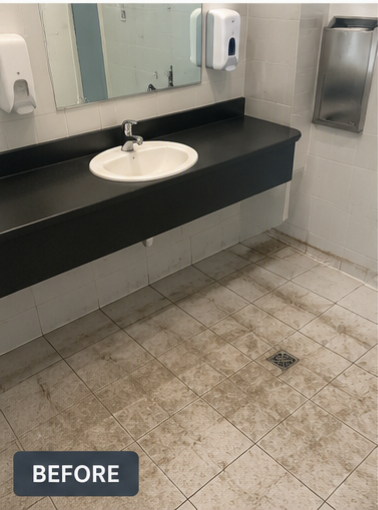
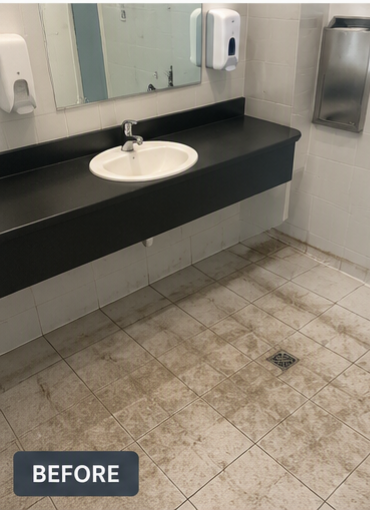
Fix bathroom photo crop, console warnings, and review carousel hydration.
Trim and zoom the Over & Above bathroom showcase images, load the hero review carousel client-side, and resolve Next.js scroll-behavior console noise.

diff --git a/src/components/sections/OverAndAboveFeature.tsx b/src/components/sections/OverAndAboveFeature.tsx
@@ -27,31 +27,45 @@ export function OverAndAboveFeature() {
             </SectionTitle>
 
             <div className="mt-8 grid grid-cols-2 gap-3">
-              <div className="relative overflow-hidden rounded-lg ring-1 ring-white/10">
+              <div className="relative aspect-[4/3] overflow-hidden rounded-lg ring-1 ring-white/10">
                 <span className="absolute left-2 top-2 z-10 rounded bg-navy px-2 py-0.5 text-xs font-semibold text-white">
                   Before
                 </span>
-                <Image
-                  src={overAndAboveShowcase.beforeImage}
-                  alt="Before — commercial bathroom floor before Assured Cleaning"
-                  width={320}
-                  height={240}
-                  className="aspect-[4/3] w-full object-cover"
-                  style={{ objectPosition: overAndAboveShowcase.objectPosition }}
-                />
+                <div
+                  className="absolute inset-0 origin-center"
+                  style={{ transform: `scale(${overAndAboveShowcase.zoom})` }}
+                >
+                  <Image
+                    src={overAndAboveShowcase.beforeImage}
+                    alt="Before — commercial bathroom floor before Assured Cleaning"
+                    fill
+                    sizes="(max-width: 1024px) 45vw, 320px"
+                    className="object-cover"
+                    style={{
+                      objectPosition: overAndAboveShowcase.beforeObjectPosition,
+                    }}
+                  />
+                </div>
               </div>
-              <div className="relative overflow-hidden rounded-lg ring-1 ring-white/10">
+              <div className="relative aspect-[4/3] overflow-hidden rounded-lg ring-1 ring-white/10">
                 <span className="absolute left-2 top-2 z-10 rounded bg-brand px-2 py-0.5 text-xs font-semibold text-navy">
                   After
                 </span>
-                <Image
-                  src={overAndAboveShowcase.afterImage}
-                  alt="After — bathroom floor restored by Assured Cleaning"
-                  width={320}
-                  height={240}
-                  className="aspect-[4/3] w-full object-cover"
-                  style={{ objectPosition: overAndAboveShowcase.objectPosition }}
-                />
+                <div
+                  className="absolute inset-0 origin-center"
+                  style={{ transform: `scale(${overAndAboveShowcase.zoom})` }}
+                >
+                  <Image
+                    src={overAndAboveShowcase.afterImage}
+                    alt="After — bathroom floor restored by Assured Cleaning"
+                    fill
+                    sizes="(max-width: 1024px) 45vw, 320px"
+                    className="object-cover"
+                    style={{
+                      objectPosition: overAndAboveShowcase.afterObjectPosition,
+                    }}
+                  />
+                </div>
               </div>
             </div>
 

diff --git a/src/components/sections/HeroReviewCarousel.tsx b/src/components/sections/HeroReviewCarousel.tsx
@@ -1,0 +1,27 @@
+"use client";
+
+import dynamic from "next/dynamic";
+
+const ReviewCarousel = dynamic(
+  () =>
+    import("@/components/sections/ReviewCarousel").then(
+      (mod) => mod.ReviewCarousel,
+    ),
+  {
+    ssr: false,
+    loading: () => (
+      <div
+        className="relative min-h-[3.5rem] min-w-0 flex-1 [mask-image:linear-gradient(to_right,transparent,black_6%,black_94%,transparent)]"
+        aria-hidden
+      />
+    ),
+  },
+);
+
+interface HeroReviewCarouselProps {
+  className?: string;
+}
+
+export function HeroReviewCarousel({ className }: HeroReviewCarouselProps) {
+  return <ReviewCarousel className={className} />;
+}

diff --git a/src/components/sections/Hero.tsx b/src/components/sections/Hero.tsx
@@ -1,5 +1,5 @@
 import Image from "next/image";
-import { ReviewCarousel } from "@/components/sections/ReviewCarousel";
+import { HeroReviewCarousel } from "@/components/sections/HeroReviewCarousel";
 import { Button } from "@/components/ui/Button";
 import { IconPattern } from "@/components/ui/BrandIcon";
 import { Container } from "@/components/ui/Container";
@@ -110,7 +110,7 @@ export function Hero() {
             className="hidden w-px shrink-0 self-stretch bg-white/10 md:block"
             aria-hidden
           />
-          <ReviewCarousel className="min-w-0 flex-1" />
+          <HeroReviewCarousel className="min-w-0 flex-1" />
         </Container>
       </div>
     </section>

diff --git a/src/content/over-and-above.ts b/src/content/over-and-above.ts
@@ -12,5 +12,7 @@ export const overAndAboveReport = {
 export const overAndAboveShowcase = {
   beforeImage: "/images/before-after/over-and-above-floor-before.png",
   afterImage: "/images/before-after/over-and-above-floor-after.png",
-  objectPosition: "center 30%",
+  beforeObjectPosition: "center 30%",
+  afterObjectPosition: "42% 30%",
+  zoom: 1.1,
 } as const;

diff --git a/src/components/layout/Footer.tsx b/src/components/layout/Footer.tsx
@@ -97,7 +97,8 @@ export function Footer() {
         </div>
 
         <div className="mt-14 border-t border-white/8 pt-8 text-xs text-white/35 md:text-sm">
-          © {year} {site.name}. All rights reserved.
+          © <span suppressHydrationWarning>{year}</span> {site.name}. All rights
+          reserved.
         </div>
       </div>
     </footer>

diff --git a/src/app/layout.tsx b/src/app/layout.tsx
@@ -57,6 +57,7 @@ export default function RootLayout({
   return (
     <html
       lang="en-NZ"
+      data-scroll-behavior="smooth"
       className={`${poppins.variable} ${caveat.variable} h-full antialiased`}
       style={{ ["--font-pacaembu" as string]: "var(--font-poppins)" }}
     >